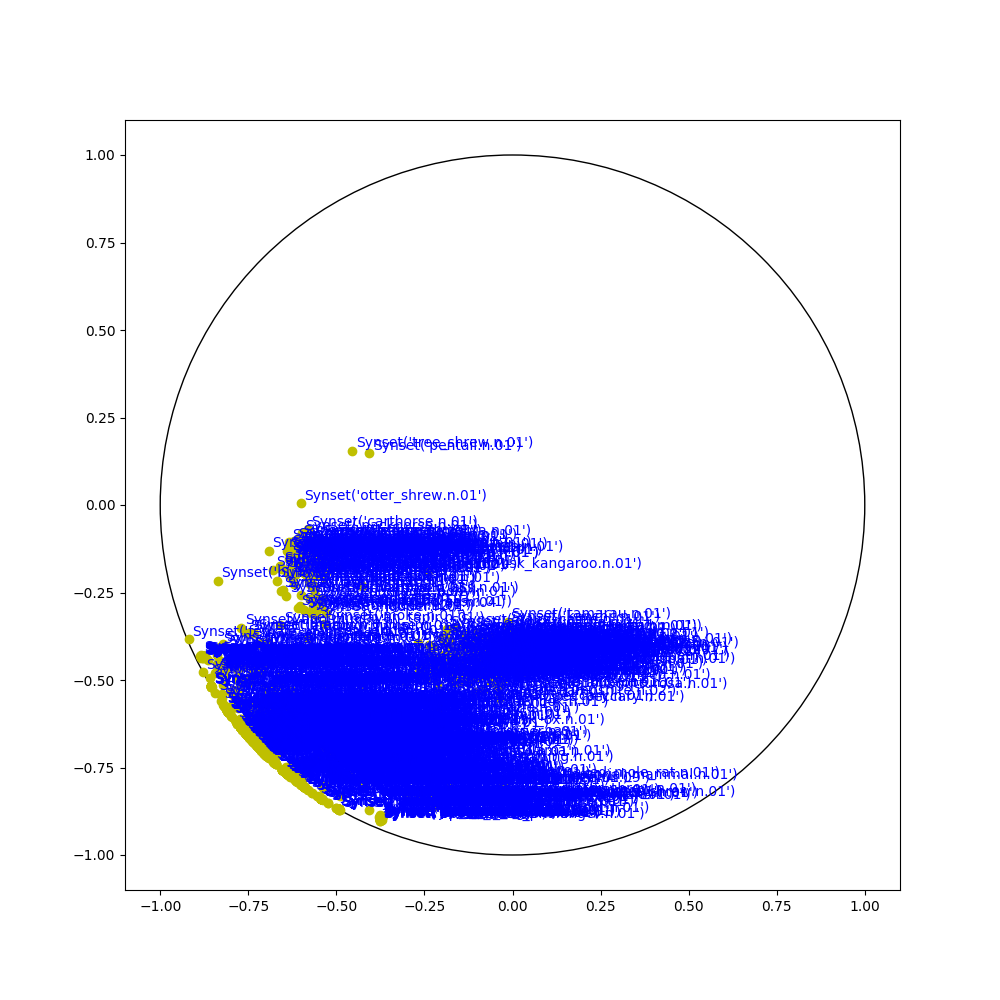
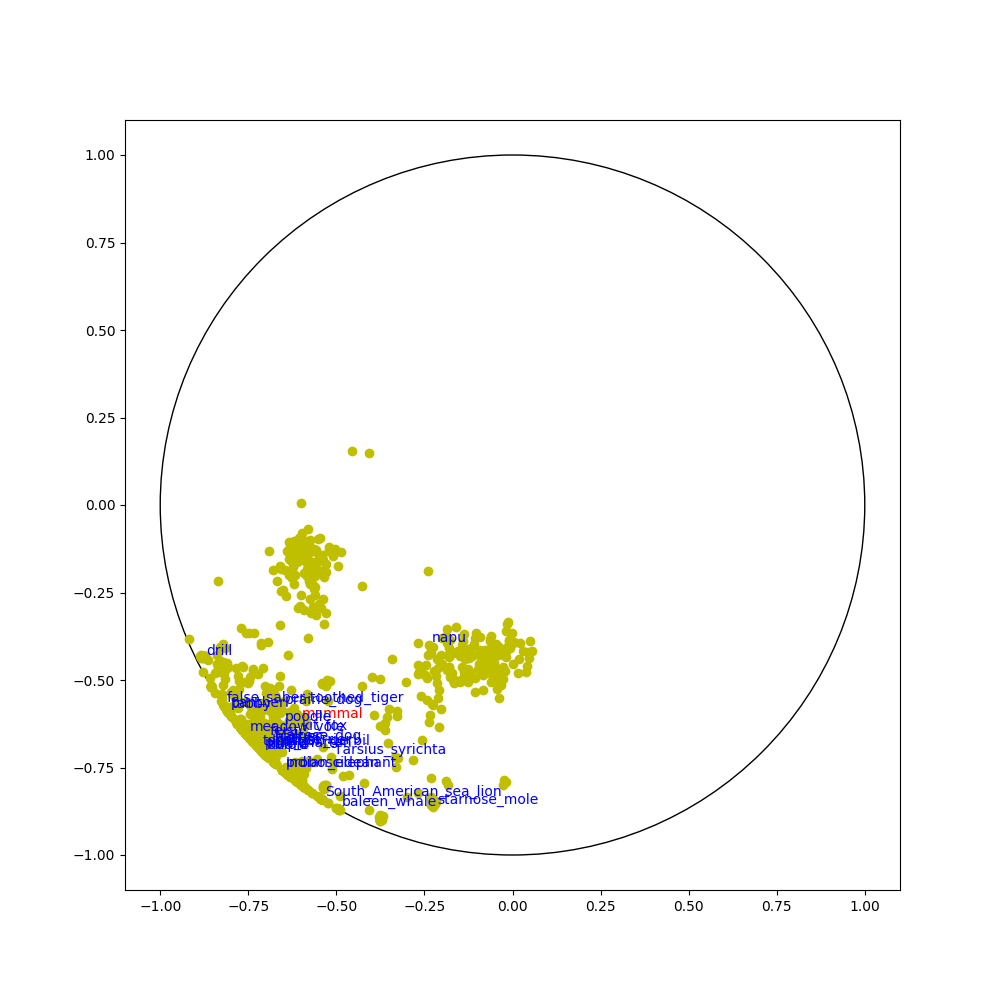
Move it

Changed region(s): [[0.186, 0.496, 0.744, 0.837], [0.372, 0.434, 0.527, 0.465]]

diff --git a/Poincare_disk_2.py b/Poincare_disk_2.py
@@ -1,0 +1,183 @@
+import matplotlib
+matplotlib.use('Agg')
+import matplotlib.pyplot as plt
+import random
+import numpy as np
+import torch
+import torch.nn as nn
+import torch.nn.functional as F
+from tqdm import tqdm_notebook
+from torch.autograd import Variable
+from nltk.corpus import wordnet as wn
+
+SEED = 42
+EPS = 1e-5
+torch.manual_seed(SEED)
+random.seed(SEED)
+np.random.seed(SEED)
+
+target = wn.synset('mammal.n.01')
+words = wn.words()
+
+nouns = list(wn.all_synsets('n'))
+
+print(len(nouns), 'nouns')
+
+hypernyms = []
+for noun in nouns:
+    paths = noun.hypernym_paths()
+    for path in paths:
+        for i in range(0, len(path) - 1):
+            hypernyms.append((noun, path[i]))
+            
+            
+            
+
+hypernyms = np.array(list(set(hypernyms)))
+print(len(hypernyms), 'hypernyms')
+lhds, rhds = hypernyms[:, 0], hypernyms[:, 1]
+targets = set(lhd for i, lhd in enumerate(lhds) if rhds[i] == target)
+temp_list=list(targets)
+temp_list.append(target)
+targets=set(temp_list)
+del temp_list
+
+print(len(targets), 'targets')
+
+isTargetHere=False
+hypernyms = []
+for targ in targets:
+    paths = targ.hypernym_paths()
+    for path in paths:
+        isTargetHere=False
+        _temp_hyp=[]
+        for i in range(2, len(path)):
+            _temp_hyp.append((targ, path[len(path)-i]))
+            if path[len(path)-i]==target:
+                isTargetHere=True
+                hypernyms=hypernyms+_temp_hyp
+        del _temp_hyp
+        
+
+        
+print(len(hypernyms), 'target hypernyms')
+uniq_hypernyms = np.array(list(set([e for tup in hypernyms for e in tup])))
+target_index,=np.where(uniq_hypernyms==target)
+word2idx = {val: i for i, val in enumerate(uniq_hypernyms)}
+random.shuffle(hypernyms)
+
+
+def proj(params):
+    norm = params.norm(p=2, dim=1).unsqueeze(1)
+    norm[norm < 1] = 1 + EPS
+    params = params.div(norm) - EPS
+    return params
+
+
+def arcosh(x):
+    return torch.log(x + torch.sqrt(x ** 2 - 1))
+
+
+def distance(u, v):
+    uu = u.norm(dim=1) ** 2
+    vv = v.norm(dim=1) ** 2
+    uv = u.mm(v.t())
+    alpha = 1 - uu
+    alpha = alpha.clamp(min=EPS)
+    beta = 1 - vv
+    beta = beta.clamp(min=EPS)
+
+    gamma = 1 + 2 * (uu - 2 * uv + vv) / (alpha * beta)
+    gamma = gamma.clamp(min=1 + EPS)
+
+    return arcosh(gamma)
+
+
+def plot(filename):
+    embeddings = (EMBEDDINGS.cpu()).numpy()
+
+    fig = plt.figure(figsize=(10, 10))
+    ax = plt.gca()
+    ax.cla()  # clear things for fresh plot
+
+    ax.set_xlim((-1.1, 1.1))
+    ax.set_ylim((-1.1, 1.1))
+
+    circle = plt.Circle((0, 0), 1., color='black', fill=False)
+    ax.add_artist(circle)
+    
+    targ_x, targ_y=embeddings[word2idx[target]]
+    dz=-complex(targ_x,targ_y)
+
+    for n in targets:
+        temp_x, temp_y=embeddings[word2idx[n]]
+        z=complex(temp_x, temp_y)
+        moved=(z+dz)/(z*np.conjugate(dz)+1)
+        x=np.real(moved)
+        y=np.imag(moved)
+        ax.plot(x, y, 'o', color='y')
+        temp=''
+        if word2idx[n]%50==0:
+            temp=n.lemmas()[0]
+            ax.text(x + 0.01, y + 0.01, temp.name(), color='b')
+            del temp
+        elif n==target:
+            temp=n.lemmas()[0]
+            ax.text(x + 0.01, y + 0.01, temp.name(), color='r')
+            del temp
+#        ax.text(x + 0.01, y + 0.01, n, color='b')
+        
+    plt.savefig(filename)
+
+def are_you_hyper(dog, cat):
+    hyper_path_d=dog.hypernym_paths()[0]
+    similar_1=[cat.path_similarity(doggy) for doggy in hyper_path_d]
+    big_dog= max(similar_1)>0.999
+    
+    hyper_path_c=cat.hypernym_paths()[0]
+    similar_2=[dog.path_similarity(kitty) for kitty in hyper_path_c]
+    big_cat= max(similar_2)>0.999
+    return big_dog or big_cat
+
+EPOCHS = 20
+DIM = 2
+START_LR = 0.1
+FINAL_LR = 0.0001
+NEG = 10
+
+EMBEDDINGS = torch.Tensor(len(uniq_hypernyms), DIM).cuda()
+nn.init.uniform(EMBEDDINGS, a=-0.001, b=0.001)
+
+for epoch in range(EPOCHS):
+    filename='epoch_copy_'+str(epoch)+'.png'
+    plot(filename)
+    bar2 = hypernyms
+    for i, (w1, w2) in enumerate(bar2):
+        i_w1 = word2idx[w1]
+        i_w2 = word2idx[w2]
+        u = Variable(EMBEDDINGS[i_w1].unsqueeze(0), requires_grad=True)
+        v = Variable(EMBEDDINGS[i_w2].unsqueeze(0), requires_grad=True)
+        NEG_SAMPLES=[i_w1]
+        while len(NEG_SAMPLES)<NEG:
+            pickme=np.random.randint(0, len(uniq_hypernyms))
+            if not are_you_hyper(uniq_hypernyms[pickme], uniq_hypernyms[i_w1]):
+                NEG_SAMPLES.append(pickme)
+        NEG_SAMPLES = torch.from_numpy(np.array(NEG_SAMPLES)).cuda()
+        negs = Variable(EMBEDDINGS[NEG_SAMPLES], requires_grad=True)
+        loss =-torch.log(torch.exp(-1 * distance(u, v)) / torch.exp(-1 * distance(u, negs)).sum())
+        loss.backward()
+        if i%1000==0:
+            print str(epoch)+' epoch and '+str(i)+' attempt'
+        r = epoch / EPOCHS
+        LR = (1 - r) * START_LR + r * FINAL_LR
+        EMBEDDINGS[NEG_SAMPLES] -= LR * (((1 - negs.norm(dim=1) ** 2) ** 2) / 4).data.unsqueeze(
+            1) * negs.grad.data
+        EMBEDDINGS[i_w1] -= LR * (((1 - u.norm() ** 2) ** 2) / 4).data * u.grad.data
+        EMBEDDINGS[i_w2] -= LR * (((1 - v.norm() ** 2) ** 2) / 4).data * v.grad.data
+        EMBEDDINGS = proj(EMBEDDINGS)
+        if u.grad is not None:
+                u.grad.data.zero_()
+        if v.grad is not None:
+                v.grad.data.zero_()
+        if negs.grad is not None:
+                negs.grad.data.zero_()
